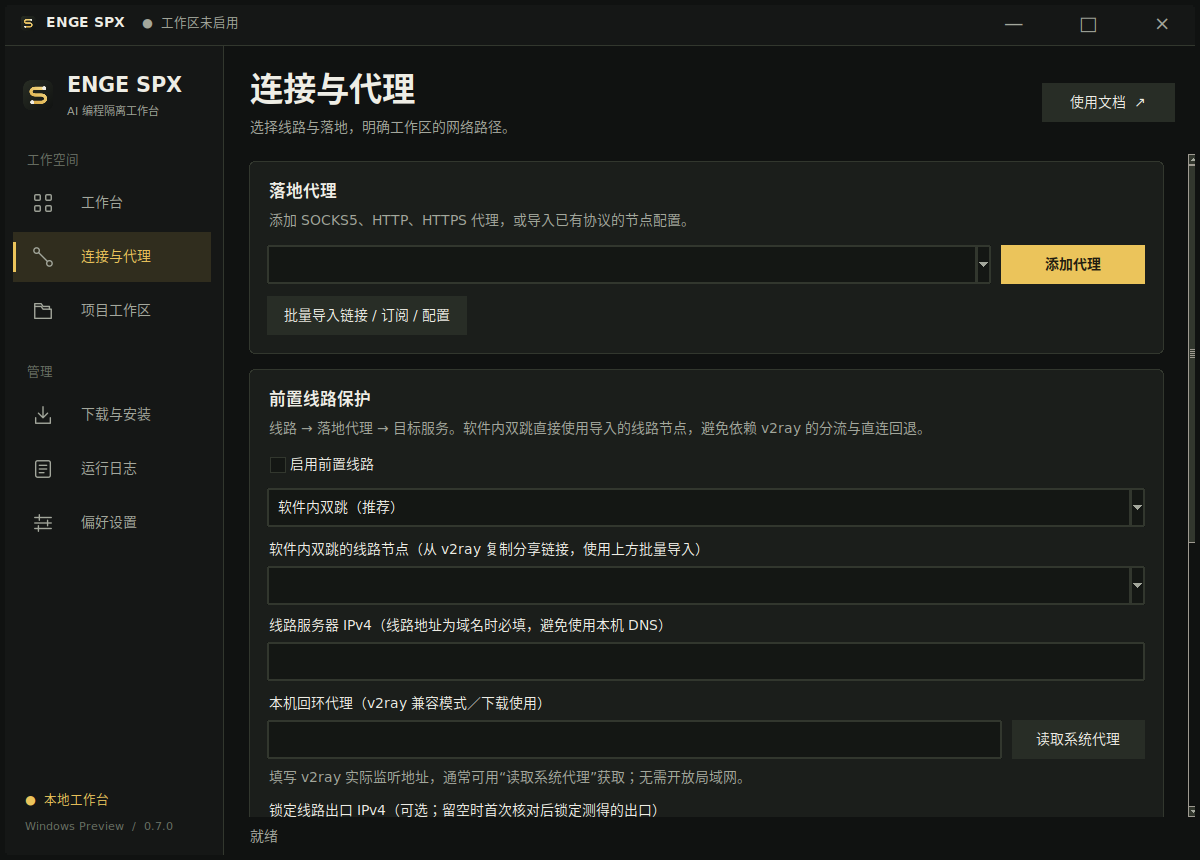
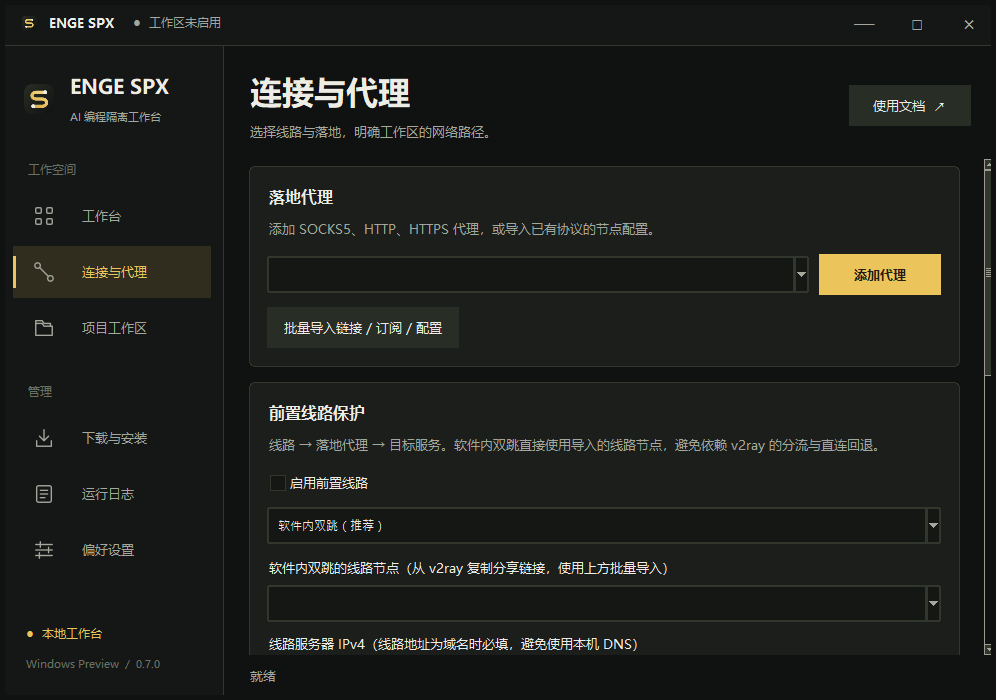
Document 0.7.0 validation and show native Windows screenshots

diff --git a/docs/validation-0.7.zh-CN.md b/docs/validation-0.7.zh-CN.md
@@ -1,0 +1,54 @@
+# 0.7.0 黑黄界面与自定义窗口验证
+
+验证日期：2026-11-09。版本为 **0.7.0 Preview**。
+
+- [安装版、便携版和校验文件](https://github.com/engeeeee/ENGE-SPX/releases/tag/v0.7.0-windows)
+- [最终成功构建](https://github.com/engeeeee/ENGE-SPX/actions/runs/42582686728)
+- 受测源码及发布标签：`6e4ce2380ace5d17e24f66cd2421fd539748b7ab`。
+- [Windows 界面截图与结果 Artifact](https://github.com/engeeeee/ENGE-SPX/actions/runs/42582686728/artifacts/13657259822)。文档中的截图来自这个 Artifact。
+
+## 界面与窗口检查
+
+| 检查 | 结果 |
+| --- | --- |
+| Windows Python 3.12 | 123 项测试通过，2 项按平台跳过 |
+| Linux Python 3.12 | 123 项测试通过，7 项按平台跳过 |
+| 原生系统边框 | Windows 普通窗口的客户区覆盖整个窗口，不显示系统标题栏；任务栏及最小化、最大化、调整大小所需样式保留 |
+| 窗口控制 | 实际调用自定义按钮及本机 API，最小化、最大化、还原状态检查通过 |
+| 最大化区域 | 可见客户区位于显示器工作区，避免隐藏边距让自绘标题栏越出顶部或覆盖任务栏 |
+| 初始窗口区域 | 完成 Tk 布局后重新核验窗口范围，避免旧标题栏尺寸被再次加入；Windows GUI 检查确认窗口在工作区内 |
+| 边缘缩放 | 八方向几何、最小尺寸、负坐标及 Windows 原生 hit test 通过；不等同于所有鼠标与多显示器交互均已验收 |
+| 页面可见性 | 六个页面的内容卡片与主要操作实际显示，页面切换、终端设置及迁移流程通过 |
+| 深色弹窗 | 确认、关闭取消、默认回车取消、模态抓取恢复和焦点处理通过 |
+| 打包 GUI | 打包程序自检、品牌、图标、原生自定义窗口适配通过；首次显示为 1922 ms |
+| 安装卸载 | 当前用户安装、快捷方式、安装后的 CLI、卸载保留私有数据通过 |
+
+窗口适配代码使用 Win32 非客户区消息和窗口样式，不使用透明背景色去模拟边框。普通窗口、自定义标题栏和可缩放边缘保持一致；最大化时将可见客户区限制在对应显示器工作区。Windows 使用中文 UI 字体，文件及文件夹选择继续使用系统对话框。
+
+早期检查发现最大化顶部 8 像素隐藏边距，以及首次布局重新加入旧边框尺寸的问题；已修正并完整重跑最终构建。被替代的构建在发布前取消，没有用它们生成公开的 0.7.0 资产。
+
+1922 ms 是该 CI runner 的窗口首次显示耗时，不包含 Docker 初始化、运行环境下载或连接核验，不代表所有电脑都具有相同速度。
+
+## 容器与已有功能
+
+本次没有修改容器配方。最终构建仍执行了实际 Linux x64 容器集成：双来源出口核对、直接 TCP 出网阻断、浏览器和 OAuth 回调、网关租约到期、停止与重检后的项目和账号数据保留、数据迁移，以及本机前置和软件内加密双跳链路检查。
+
+第一跳出口不符、线路失效、线路出口变化及污染的 `NO_PROXY` 不会使检测改走直连；线路诊断入口不提供跳过落地的工作区路径。导出的完整运行环境在 containerd 和 classic 两种存储中完成安装、重复安装及原有标签与数据保留检查。
+
+## 发布后下载核验
+
+通过程序使用的 HTTPS 客户端完整下载公开 Windows 安装版、便携版、清单和校验文件，大小与 SHA-256 和 GitHub 资产摘要一致。便携 ZIP 完整性、GUI / CLI 的 x64 PE 架构、`0.7.0 Preview` 元数据及包内琥珀黄图标均已核对。发布标签指向上述受测源码。
+
+| 资产 | 字节数 | SHA-256 |
+| --- | ---: | --- |
[3 lines of base64/hex data omitted]
+
+完整 runtime 已在 CI 校验并导入两种存储；发布后没有在本地重复完整下载约 949 MB 的归档。公开清单与源码配方、CI 摘要和 GitHub 资产摘要一致，公开 Range 请求返回正确总长度和可读取的 gzip 内容。
+
+## 尚未覆盖的范围
+
+Windows CI 的窗口状态、原生消息和截图验证，不能替代用户实机上的完整拖动操作、多显示器切换、不同 DPI、Windows Snap 菜单，以及终端、Docker Desktop、v2ray 和真实节点的组合验收。当前包未代码签名，也未经过独立安全审计。
+
+文件读写共享、工具账号共享、Chromium `--no-sandbox`、凭据存储和代理监测周期等边界继续存在，详见 [安全模型](security-model.zh-CN.md)。本次界面重构没有扩大这些隔离保证。

diff --git a/README.en.md b/README.en.md
@@ -60,7 +60,7 @@ The first runtime download is about 1 GB and starts after you click; existing im
 
 ![ENGE SPX preparation interface](docs/images/spx-startup.png)
 
-This is the actual source UI in a Linux graphical test environment, not physical Windows acceptance evidence.
+This is the actual source UI captured in native Windows CI. It does not replace interactive acceptance on each user's display and DPI configuration.
 
 </details>
 
@@ -112,7 +112,7 @@ Most detailed guides are in Chinese:
 
 ## Development and status
 
-Maintained by [engeeeee](https://github.com/engeeeee). Source use requires Python 3.12+ with Tk. Install with `python -m pip install -e .` and launch `spx`, or use `Start-Windows.cmd` on Windows. Windows packaging uses PyInstaller and Inno Setup. See [development instructions](docs/development.md), [0.6.0 core validation](docs/validation-0.6.zh-CN.md) and [CHANGELOG](CHANGELOG.md).
+Maintained by [engeeeee](https://github.com/engeeeee). Source use requires Python 3.12+ with Tk. Install with `python -m pip install -e .` and launch `spx`, or use `Start-Windows.cmd` on Windows. Windows packaging uses PyInstaller and Inno Setup. See [development instructions](docs/development.md), [0.7.0 validation](docs/validation-0.7.zh-CN.md) and [CHANGELOG](CHANGELOG.md).
 
 The current focus is Windows x64, controlled proxy paths and existing-data compatibility. There is no Windows ARM64 package or automatic updater. Unsupported WS / gRPC / Reality / XTLS / uTLS parameters cannot be imported as managed lines.
 

diff --git a/README.md b/README.md
@@ -62,7 +62,7 @@ flowchart LR
 
 ![ENGE SPX 一键准备界面](docs/images/spx-startup.png)
 
-截图来自真实源码界面的 Linux 图形测试环境，不代表 Windows 实机验收。
+截图来自原生 Windows CI 中运行的真实源码界面；不同显示器、DPI 与用户实机组合仍需交互验收。
 
 </details>
 
@@ -153,7 +153,7 @@ python -m venv .venv
 .\.venv\Scripts\spx.exe
 ```
 
-Windows 包使用 PyInstaller 和 Inno Setup 构建。CI 覆盖 Windows / Linux 检查、GUI 与安装卸载、真实 Linux Docker 链路及两种镜像存储；[0.6.0 核心功能验证记录](docs/validation-0.6.zh-CN.md)列出了结果、资产摘要和未覆盖的实机交互范围。源码结构与构建见 [开发说明](docs/development.md)，版本变化见 [CHANGELOG](CHANGELOG.md)。
+Windows 包使用 PyInstaller 和 Inno Setup 构建。CI 覆盖 Windows / Linux 检查、GUI 与安装卸载、真实 Linux Docker 链路及两种镜像存储；[0.7.0 验证记录](docs/validation-0.7.zh-CN.md)列出了结果、资产摘要和未覆盖的实机交互范围。源码结构与构建见 [开发说明](docs/development.md)，版本变化见 [CHANGELOG](CHANGELOG.md)。
 
 ## 许可与来源
 

diff --git a/docs/branding.zh-CN.md b/docs/branding.zh-CN.md
@@ -26,12 +26,15 @@ Git 提交起点，没有连接原仓库的 fork 网络。
 文件与文件夹选择继续使用系统对话框。颜色来自本项目的主题定义，产品名称
 和图形标识仍为 ENGE SPX，不代表与 Claude / Anthropic 有官方关系。
 
-以下截图是源码界面在 Linux 图形测试环境中的实际初始状态，没有填入演示
-出口、代理凭据或用户项目。Windows 程序另由原生 Windows CI 构建和启动验证。
+以下截图来自 0.7.0 最终构建的原生 Windows CI，是真实源码界面的初始状态，
+没有填入演示出口、代理凭据或用户项目。对应的源码、截图 Artifact 和窗口
+控制验证范围见 [0.7.0 验证记录](validation-0.7.zh-CN.md)。
 
 ![ENGE SPX 工作台](images/spx-overview.png)
 
 ![ENGE SPX 连接与代理](images/spx-connection.png)
+
+![ENGE SPX 项目工作区](images/spx-workspace.png)
 
 旧名称仅在 [来源说明](../NOTICE.md)、第三方记录及明确的升级兼容代码中保留，
 用于识别此前已经发布的资源。独立品牌与独立托管不改变第三方作者的版权和
